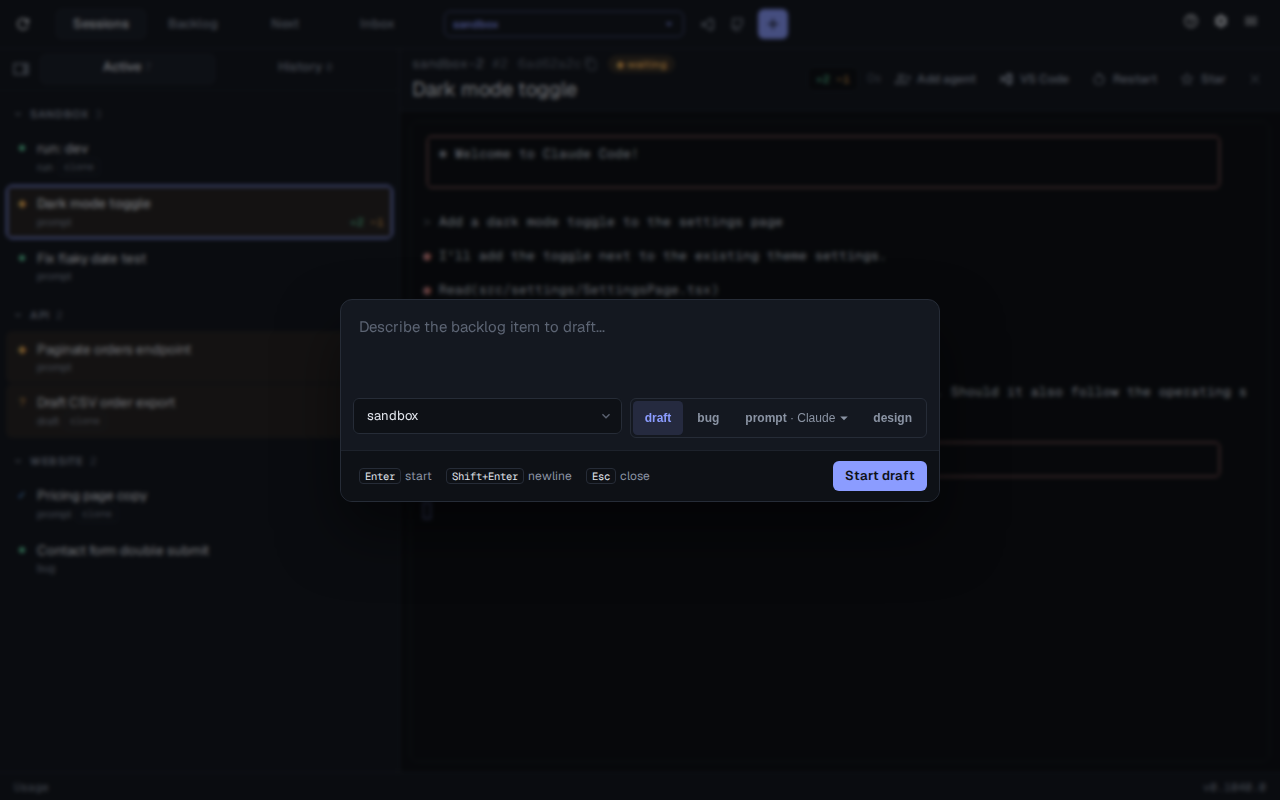
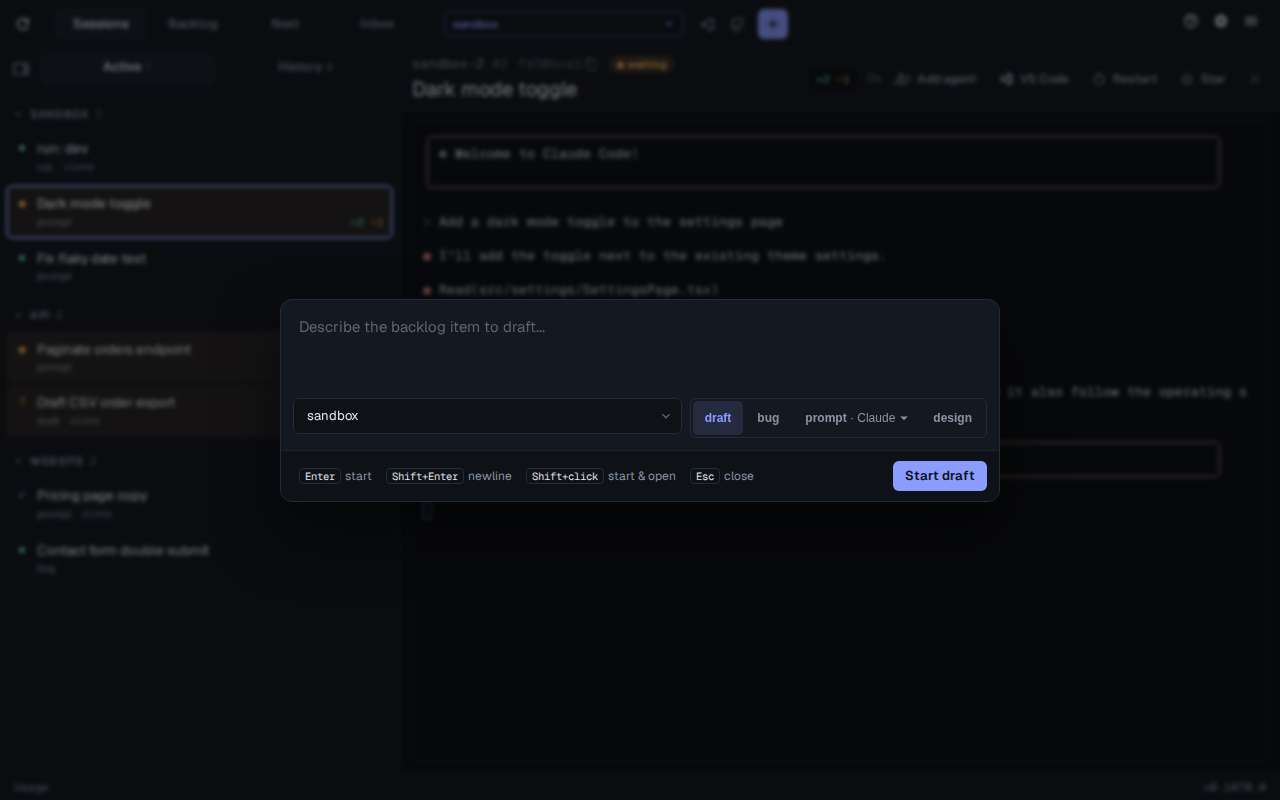
fix: refresh docs for recent stories

diff --git a/docs/src/content/docs/sessions-preview-panes.md b/docs/src/content/docs/sessions-preview-panes.md
@@ -40,6 +40,29 @@ screenshots:
           to: text=Save the choice to localStorage
       - type: Store it per user on the server instead, so it follows them between devices
       - click: text=Add to review
+  - file: sessions-question.png
+    alt: A question from the agent in the preview pane, with its options, an Other box and the Answer button
+    route: /sessions
+    scene: previews
+    setup:
+      - question:
+          session: Add a dark mode toggle to the settings page
+          title: Claude is asking a question
+          questions:
+            - question: Where should the Dark mode toggle go on the settings page?
+              header: Placement
+              multiSelect: false
+              options:
+                - label: Next to the theme picker
+                  description: Groups it with the other appearance settings
+                - label: In a new Appearance section
+                  description: Leaves room for more display options later
+    waitFor: text=Where should the Dark mode toggle go
+    viewport:
+      width: 1440
+      height: 720
+    actions:
+      - click: text=Dark mode toggle
   - file: sessions-check.png
     alt: A manual check in the preview pane, with its steps and the Works, Doesn't work and Later phase buttons
     route: /sessions
@@ -158,13 +181,15 @@ Ask the agent to `/ask` about something and it puts a proposal, summary or decis
 
 ## Answering questions
 
-Turn on `assist config set sessions.askQuestion true` and questions the agent asks you open in the pane as a form instead of in the terminal. Pick one option, or several where the question allows it, or choose **Other** and type your own answer, then press **Answer**. **Dismiss** declines to answer.
+Questions the agent asks you open in the pane as a form instead of in the terminal. Pick one option, or several where the question allows it, or choose **Other** and type your own answer, then press **Answer**. In an **Other** box, :kbd[Enter] sends the answers once every question is answered and :kbd[Shift+Enter] adds a new line. **Dismiss** declines to answer.
+
+::screenshot{file="sessions-question.png"}
 
 Turn on **Auto submit** in the pane (`sessions.askQuestionAutoSubmit`) and a form whose questions each take one option is sent as soon as you pick the option that completes it, without pressing **Answer**.
 
 ## Trying a change
 
-With `sessions.askQuestion` on, manual checks open in the pane. Follow the steps, then press **Works** or **Doesn't work**, with an optional note.
+Manual checks open in the pane. Follow the steps, then press **Works** or **Doesn't work**, with an optional note.
 
 During a [backlog run](../backlog-running/), a check that can't be judged yet can wait: press **Later phase** and pick one of the item's later phases, including Review, to move the check there.
 

diff --git a/docs/src/content/docs/review-comments.md b/docs/src/content/docs/review-comments.md
@@ -19,13 +19,12 @@ covers:
 
 Picking an option carries it out on GitHub; there is nothing left to post afterwards.
 
-| Mode                     | How you decide                                                                   |
-| ------------------------ | -------------------------------------------------------------------------------- |
-| Address Comments         | One thread at a time, each change made before the next question                  |
-| Address Comments (batch) | Every thread up front, then the changes are made together                        |
-| Address Comments (auto)  | The agent decides, asking only about threads it isn't sure of, and sums up after |
+| Mode                    | How you decide                                                                                     |
+| ----------------------- | -------------------------------------------------------------------------------------------------- |
+| Address Comments        | Every thread up front, then each addressed thread gets its own commit and they are pushed together |
+| Address Comments (auto) | The agent decides, asking only about threads it isn't sure of, and sums up after                   |
 
-In a session already on the pull request's branch, run `/review-pr-comments`, with `--batch` or `--auto` for those modes. Add `--announce <number>` to [post the pull request to Slack](../pull-requests/#announcing-in-slack) once every thread is handled.
+In a session already on the pull request's branch, run `/review-pr-comments`, with `--auto` for auto mode. Add `--announce <number>` to [post the pull request to Slack](../pull-requests/#announcing-in-slack) once every thread is handled.
 
 ## Posting review comments
 

diff --git a/docs/src/content/docs/sessions-sidebar.md b/docs/src/content/docs/sessions-sidebar.md
@@ -59,13 +59,13 @@ Cards are grouped by repo. A repo with one session shows a lone card; two or mor
 
 Starred sessions, and the groups holding them, come first; everything else keeps the order it started in. :kbd[Mod+.] jumps straight to the next session waiting on you, including those with a question or check.
 
-A group you collapse stays where it is, marked with a pin, until you open it or a new session starts in it.
+A group you collapse stays where it is, marked with a pin, until you open it.
 
 The button at the left of the tab row hides the sidebar; the same button then appears in the toolbar to bring it back.
 
 ## Closing a session
 
-The × on a card ends the session. A finished session is dismissed straight away; anything still live asks first, because closing kills its process. A card with nested sessions offers to close just itself or all of them. An agent can also close its own session: [`/close`](../sessions-cli/#slash-commands) has it check its work is finished first.
+The × on a card ends the session. A finished session is dismissed straight away; anything still live asks first, because closing kills its process. A card with nested sessions offers to close just itself or all of them. Hold :kbd[Shift] as you click the × or press :kbd[Enter] to skip the confirmation; on a card with nested sessions this closes all of them. An agent can also close its own session: [`/close`](../sessions-cli/#slash-commands) has it check its work is finished first.
 
 When the session holds unpushed work, closing stops it instead of removing it. The card stays, greyed, with **Restart** and a discard button that either throws the changes away or just drops the card, leaving the files on disk.
 

diff --git a/docs/src/content/docs/code-quality.md b/docs/src/content/docs/code-quality.md
@@ -48,7 +48,7 @@ When the plan goes deeper or longer than the limits, pin files to flatten it.
 
 ## Removing comments
 
-Run `/strip-code-comments` to remove comments that restate the code, label sections or hold commented-out code, keeping directives and comments that explain something the code can't. It also adds a commenting policy to the repo's `CLAUDE.md` if there isn't one.
+Run `/strip-code-comments` to remove comments that restate the code, label sections or hold commented-out code, keeping directives, comments that explain something the code can't, and the version comment after a SHA-pinned GitHub Actions `uses:` ref (such as `@<sha> # v4.2.0`). It also adds a commenting policy to the repo's `CLAUDE.md` if there isn't one.
 
 ### Approving a comment
 

diff --git a/docs/src/content/docs/sessions-creating.md b/docs/src/content/docs/sessions-creating.md
@@ -25,7 +25,7 @@ screenshots:
 
 ## The new-session dialog
 
-The **+** button in the toolbar, :kbd[Mod+N] or :kbd[Alt+N] opens the new-session dialog. Type what you want, pick the repo and a mode, and press :kbd[Enter] (:kbd[Shift+Enter] adds a newline, :kbd[Esc] closes).
+The **+** button in the toolbar, :kbd[Mod+N] or :kbd[Alt+N] opens the new-session dialog. Type what you want, pick the repo and a mode, and press :kbd[Enter] (:kbd[Shift+Enter] adds a newline, :kbd[Esc] closes). A session started while another is open starts in the background; hold :kbd[Shift] as you click the start button to switch to it once it starts.
 
 ::screenshot{file="sessions-new.png"}
 
